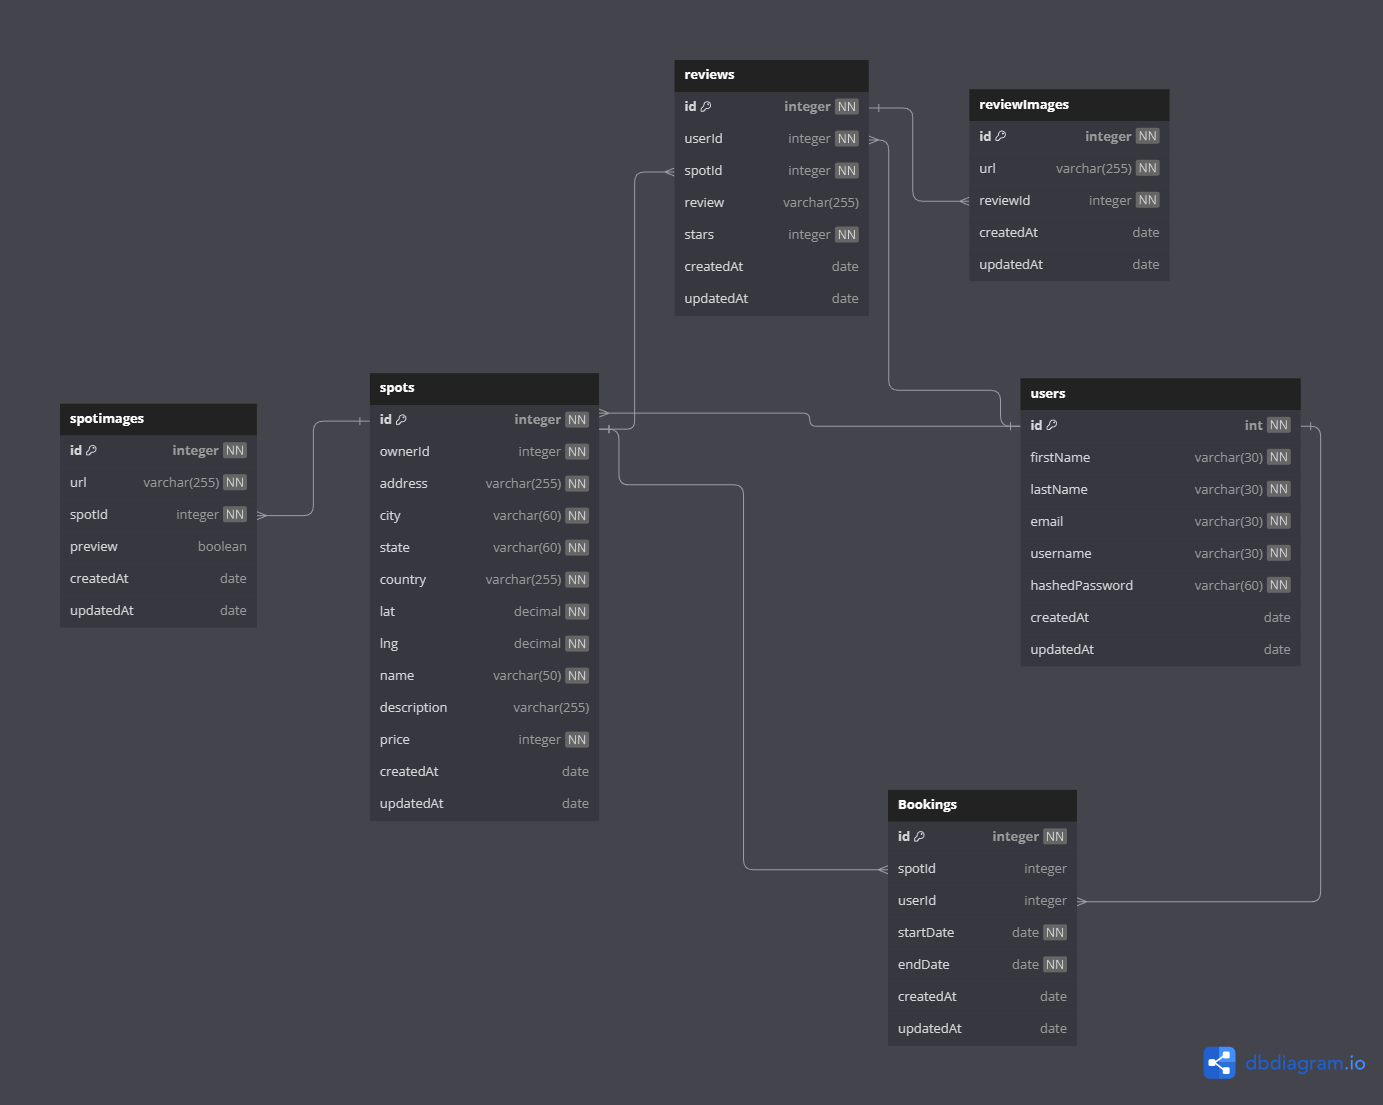
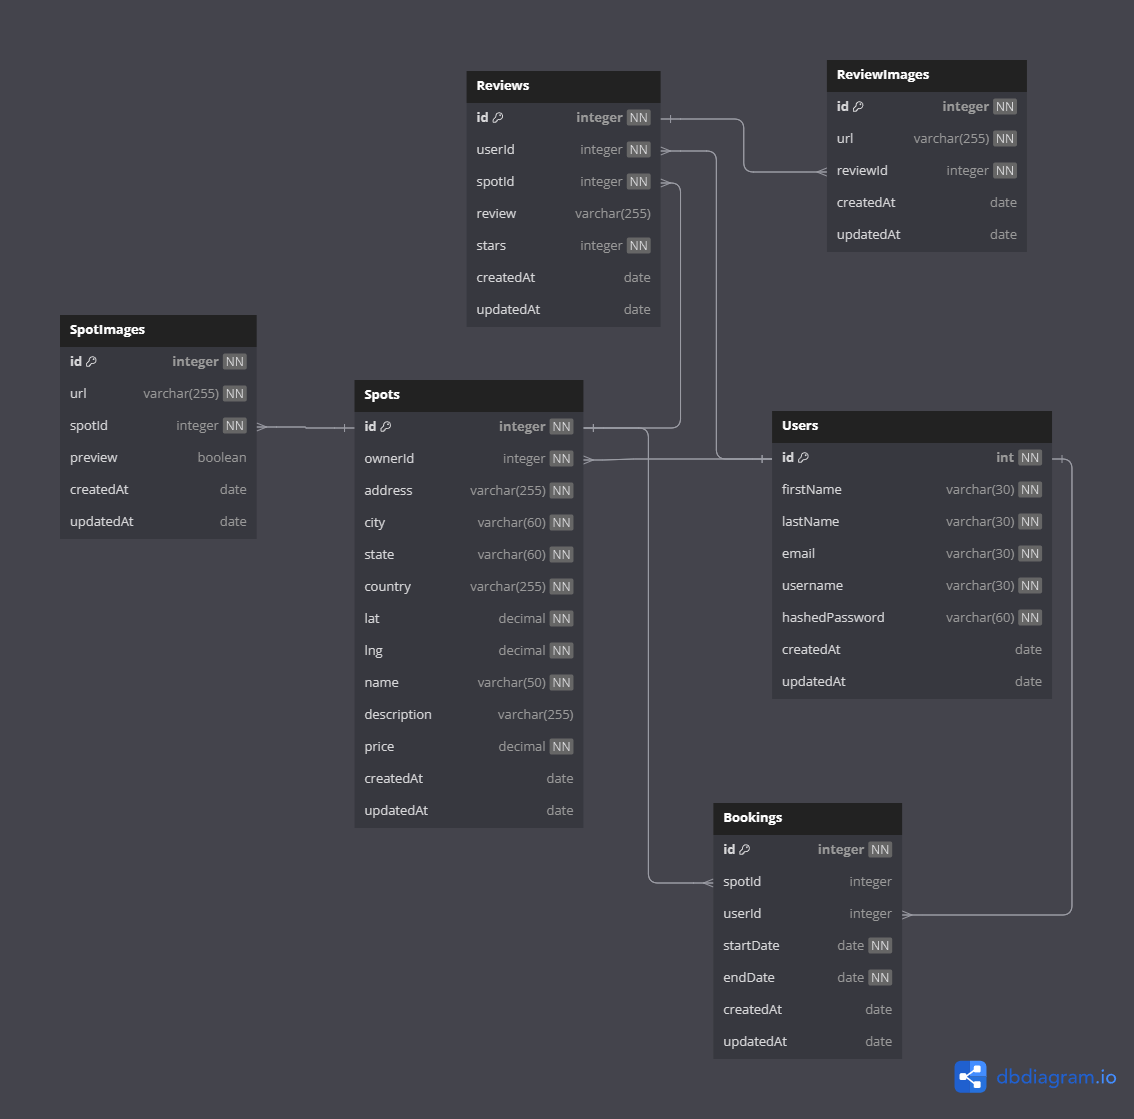
chaged price to be decimal and added capitalized table names

diff --git a/readme.md b/readme.md
@@ -4,20 +4,20 @@
 ![dbDiagram](./images/Untitled.png)
 
 ```javascript
-Table users {
+Table Users {
   id int [primary key, increment, not null]
   firstName varchar(30) [not null]
   lastName varchar(30) [not null]
   email varchar(30) [not null, unique]
   username varchar(30) [not null, unique]
-  hashedPassword varchar(30) [not null]
+  hashedPassword varchar(60) [not null]
   createdAt date [default: 'current_timestamp']
   updatedAt date [default: 'current_timestamp']
   
 }
 
 
-Table spots {
+Table Spots {
   id integer [primary key, increment, not null]
   ownerId integer [not null]
   address varchar(255) [not null]
@@ -28,14 +28,14 @@ Table spots {
   lng decimal [not null]
   name varchar(50) [not null]
   description varchar(255)
-  price integer [not null]
+  price decimal [not null]
   createdAt date [default: 'current_timestamp']
   updatedAt date [default: 'current_timestamp']
 
 
 }
 
-Table spotimages {
+Table SpotImages {
   id integer [primary key, increment, not null]
   url varchar(255) [not null]
   spotId integer [not null]
@@ -45,7 +45,7 @@ Table spotimages {
   
 }
 
-Table reviewImages {
+Table ReviewImages {
   id integer [primary key, increment, not null]
   url varchar(255) [not null]
   reviewId integer [not null]
@@ -55,7 +55,7 @@ Table reviewImages {
    
 }
 
-Table reviews {
+Table Reviews {
   id integer [primary key, increment, not null]
   userId integer [not null]
   spotId integer [not null]
@@ -79,17 +79,21 @@ Table Bookings {
 
 
 
-Ref: "users"."id" < "spots"."id"
 
-Ref: "users"."id" < "Bookings"."userId"
 
-Ref: "spots"."id" < "Bookings"."spotId"
+Ref: "Spots"."id" < "SpotImages"."spotId"
 
-Ref: "reviews"."id" < "reviewImages"."reviewId"
+Ref: "Users"."id" < "Spots"."ownerId"
 
-Ref: "reviews"."userId" < "users"."id"
+Ref: "Spots"."id" < "Reviews"."spotId"
 
-Ref: "spots"."id" < "spotimages"."spotId"
+Ref: "Reviews"."id" < "ReviewImages"."reviewId"
+
+Ref: "Spots"."id" < "Bookings"."spotId"
+
+Ref: "Users"."id" < "Bookings"."userId"
+
+Ref: "Users"."id" < "Reviews"."userId"
 ```
 
 
